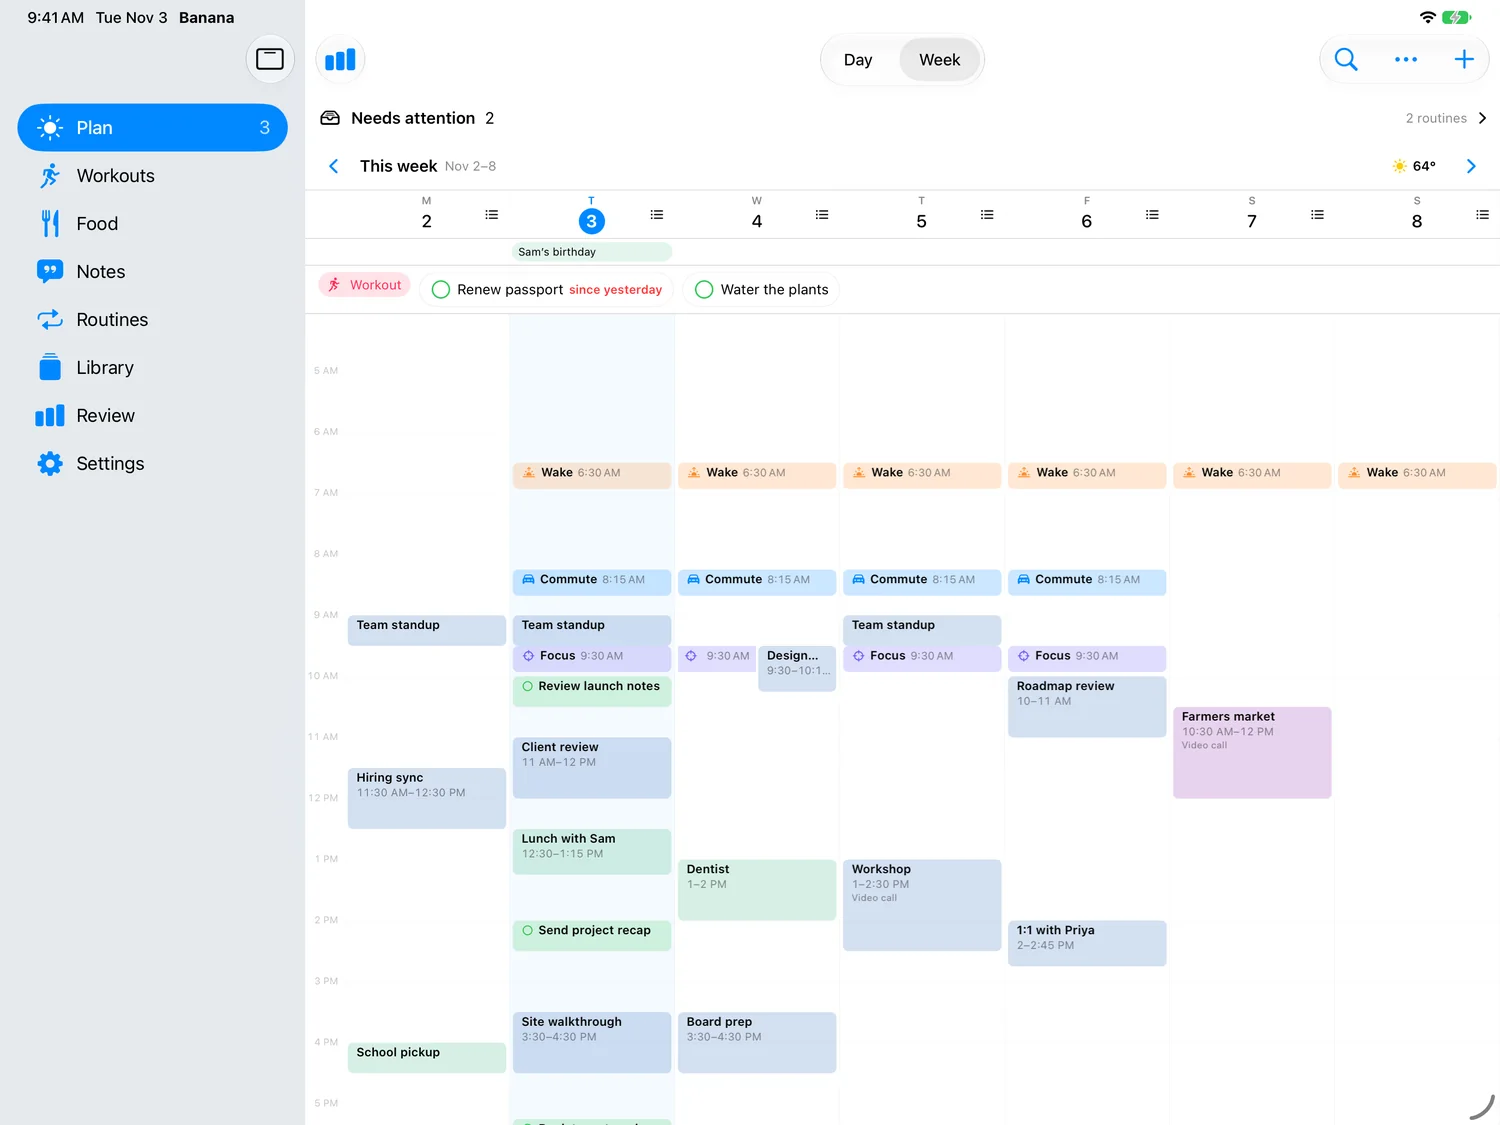
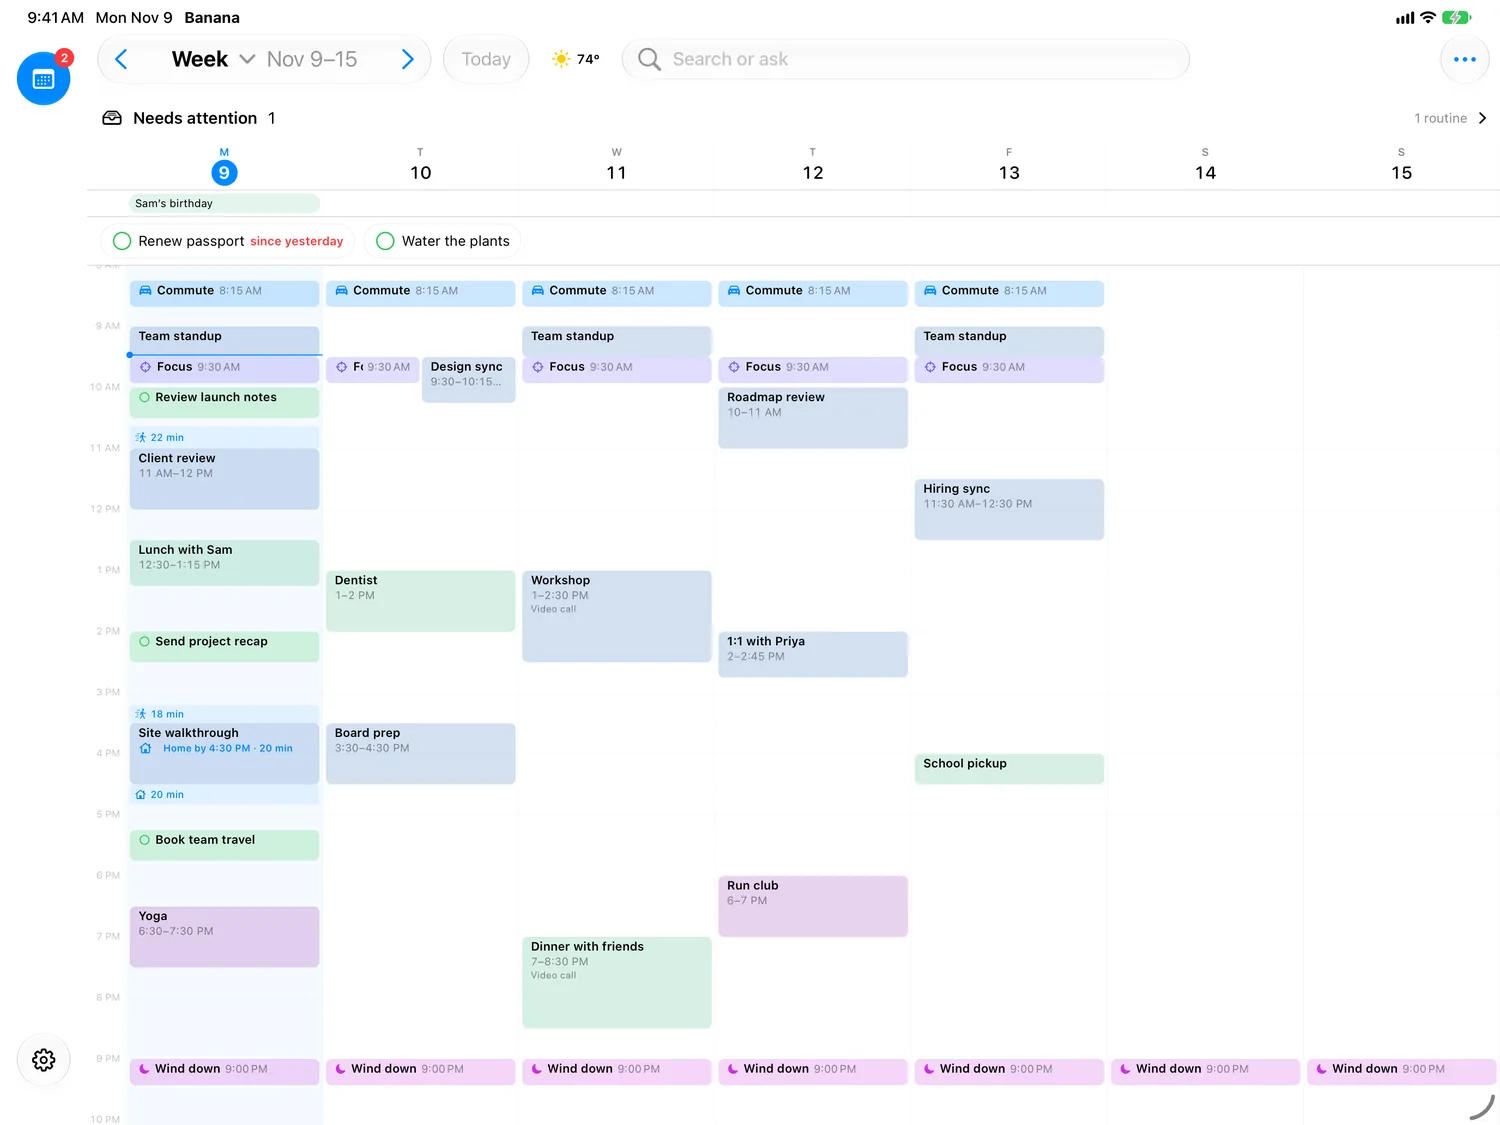
Site: calendar-only iPhone and iPad pictures, no Mac tab yet
The home page's device pictures now come from the calendar-only App Store captures
(assets/screenshots/calendar-only, from release/appstore-screens 069fc4bf); the old
ones showed module tabs. build_site.py lists only the pictures the site shows and
'build_site.py captures' rebuilds just those. No calendar-only Mac capture exists, so
the iPad/Mac switch is reduced to iPad. Unused module-era images removed.

diff --git a/LandingPage/site/index.html b/LandingPage/site/index.html
@@ -221,7 +221,7 @@
 
 <section class="screens-in-context" id="screenshots" aria-label="Banana app screenshots">
   <figure class="phone-capture"><a href="/assets/img/phone-plan.webp" aria-label="Enlarge iPhone screenshot"><img src="/assets/img/phone-plan.webp" width="780" height="1696" loading="lazy" alt="Banana on iPhone showing today’s reminders, travel time and meetings."></a><figcaption>iPhone</figcaption></figure>
-  <figure class="wide-capture"><a id="wide-shot-link" href="/assets/img/ipad-plan.webp" aria-label="Enlarge iPad screenshot"><img id="wide-shot" src="/assets/img/ipad-plan.webp" width="1500" height="1125" loading="lazy" alt="Banana on iPad showing a week of appointments, reminders and routines."></a><figcaption><div class="screen-switch" role="group" aria-label="Choose large screen"><button type="button" data-screen="ipad" aria-pressed="true">iPad</button><span aria-hidden="true">/</span><button type="button" data-screen="mac" aria-pressed="false">Mac</button></div></figcaption></figure>
+  <figure class="wide-capture"><a id="wide-shot-link" href="/assets/img/ipad-plan.webp" aria-label="Enlarge iPad screenshot"><img id="wide-shot" src="/assets/img/ipad-plan.webp" width="1500" height="1125" loading="lazy" alt="Banana on iPad showing a week of appointments, reminders and routines."></a><figcaption>iPad</figcaption></figure>
 </section>
 
   <section class="block" id="soon">

diff --git a/LandingPage/build_site.py b/LandingPage/build_site.py
@@ -1,7 +1,8 @@
 #!/usr/bin/env python3
 """Make the website's images from the marketing captures.
 
-    python3 LandingPage/build_site.py
+    python3 LandingPage/build_site.py            # captures, mark, icons, social image
+    python3 LandingPage/build_site.py captures   # the screenshots only
 
 `tools/app-store/generate.py` refreshes `LandingPage/assets/screenshots/` with every run; this
 turns those captures (the raw ones: the site sets its own headlines in HTML) into the WebP
@@ -23,19 +24,13 @@ ROOT = HERE.parent
 SHOTS = HERE / "assets/screenshots"
 OUT = HERE / "site/assets/img"
 
-# name on the site, source capture, width in pixels (twice the widest it is shown)
+# name on the site, source capture, width in pixels (twice the widest it is shown). The site shows
+# the calendar-only App Store build; swapping a picture is changing its source here and running
+# `python3 LandingPage/build_site.py captures`. The Mac picture waits for a calendar-only capture
+# (the old mac/raw/01-plan.png shows module tabs), so the home page shows no Mac tab until then.
 CAPTURES = [
-    ("phone-plan", "iphone/raw/01-plan.png", 780),
-    ("phone-routines", "iphone/raw/02-routines.png", 780),
-    ("phone-nutrition", "iphone/raw/03-nutrition.png", 780),
-    ("phone-workouts", "iphone/raw/05-workouts.png", 780),
-    ("phone-listenmap", "iphone/raw/06-listening.png", 600),    # the pair is shown smaller,
-    ("phone-transcript", "iphone/raw/07-transcripts.png", 600),  # and a map is heavy
-    ("ipad-plan", "ipad/raw/01-plan.png", 1500),
-    ("mac-plan", "mac/raw/01-plan.png", 1320),
-    ("mac-sleep", "mac/raw/03-sleep.png", 1320),
-    ("watch-workout", "watch/raw/01-workout.png", 416),
-    ("watch-playing", "watch/raw/02-now-playing.png", 416),
+    ("phone-plan", "calendar-only/iphone/raw/01-plan.png", 780),
+    ("ipad-plan", "calendar-only/ipad/raw/01-plan.png", 1500),
 ]
 
 
@@ -83,8 +78,11 @@ def social(tile: Image.Image) -> None:
 
 
 if __name__ == "__main__":
+    import sys
     OUT.mkdir(parents=True, exist_ok=True)
     captures()
+    if sys.argv[1:] == ["captures"]:
+        raise SystemExit
     tile = mark()
     icons(tile)
     cloud_brand()

diff --git a/LandingPage/README.md b/LandingPage/README.md
@@ -40,7 +40,14 @@ iPhone and iPad TestFlight beta. Set it to the address App Store Connect gives t
 `check_site.py`: the App Store becomes the first button in the header, hero and footer, structured
 data and Support and About follow, and the Mac download and the beta stay. `store_links.py` holds
 the copy for both states. Before switching, replace the iPhone, iPad and Mac screenshots with
-captures of the calendar-only App Store build: the current ones show the module tabs.
+captures of the calendar-only App Store build.
+
+The home page's iPhone and iPad pictures come from `assets/screenshots/calendar-only/*/raw/`
+(listed in `build_site.py`'s `CAPTURES`); to swap one, replace or repoint its capture and run
+`python3 LandingPage/build_site.py captures`. There is no calendar-only Mac capture yet, so the
+iPad/Mac switch under the large picture is reduced to "iPad". When one exists, add `mac-plan` to
+`CAPTURES` and put the switch back (the buttons with `data-screen="ipad"` and `"mac"`; the script
+that swaps the picture is still on the page).
 
 ## Lines that will go out of date
 
